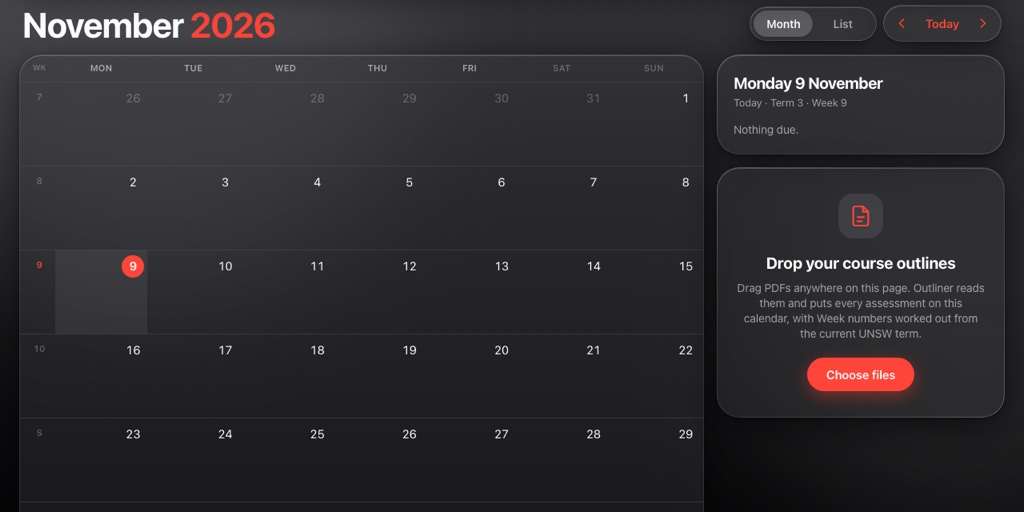
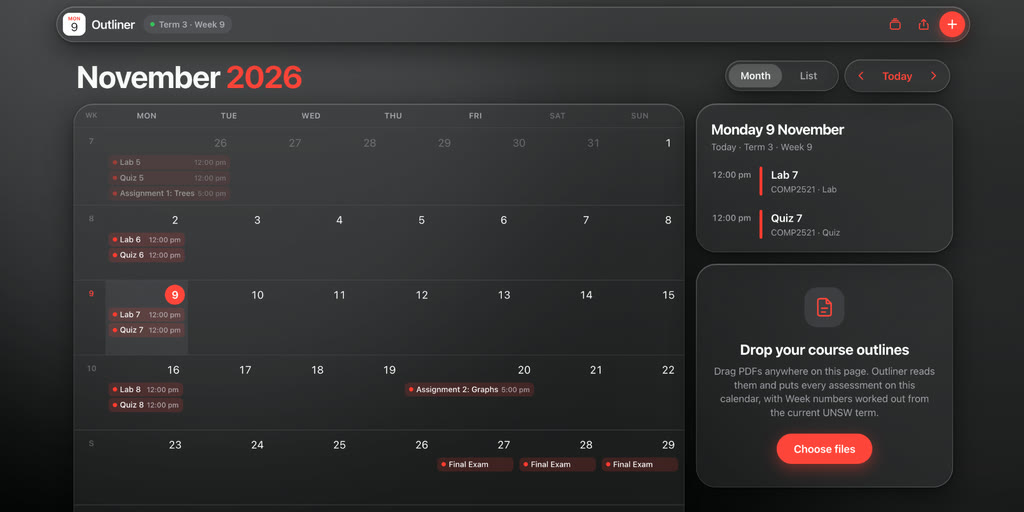
Use real screenshots for fotos and Outliner.

diff --git a/projects.html b/projects.html
@@ -214,7 +214,7 @@
       <div class="project-card-wrap">
         <button type="button" class="project-card" aria-haspopup="dialog">
           <div class="project-thumb">
-            <img src="images/fotos.svg" alt="" />
+            <img src="images/fotos-demo.jpg" alt="" />
           </div>
           <div class="project-body">
             <div class="project-top">

diff --git a/style.css b/style.css
@@ -266,8 +266,8 @@ main.home {
   display: block;
 }
 
-[data-theme="dark"] .project-thumb img,
-[data-theme="dark"] .game-thumb img {
+[data-theme="dark"] .project-thumb img[src$=".svg"],
+[data-theme="dark"] .game-thumb img[src$=".svg"] {
   filter: invert(1);
 }
 
